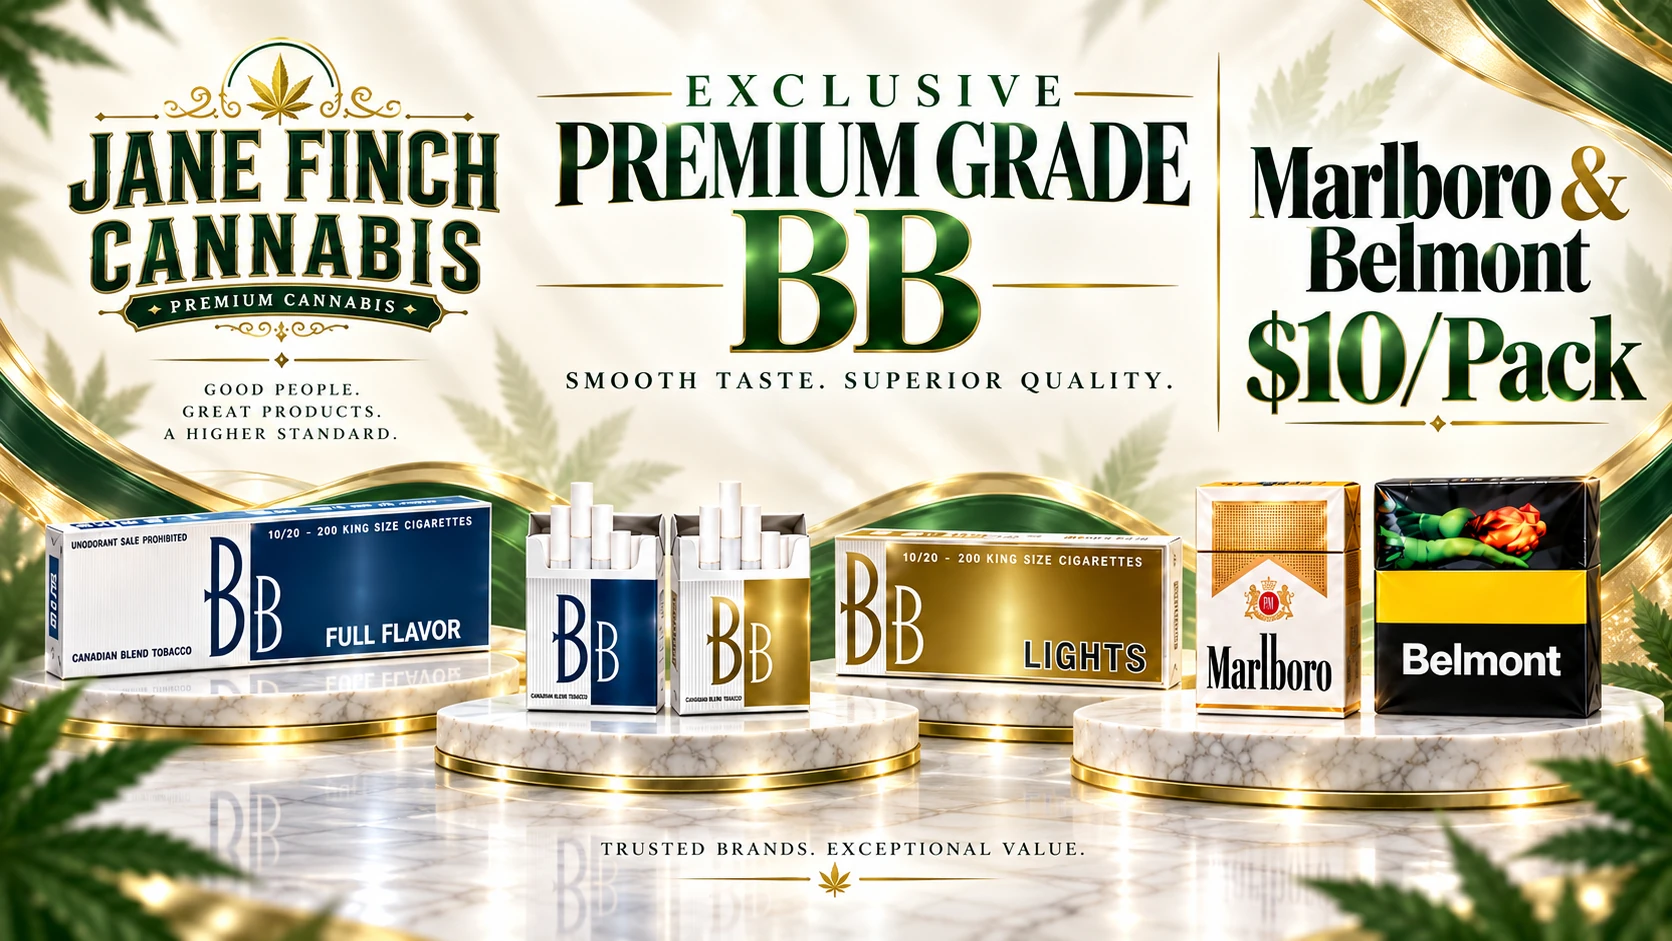
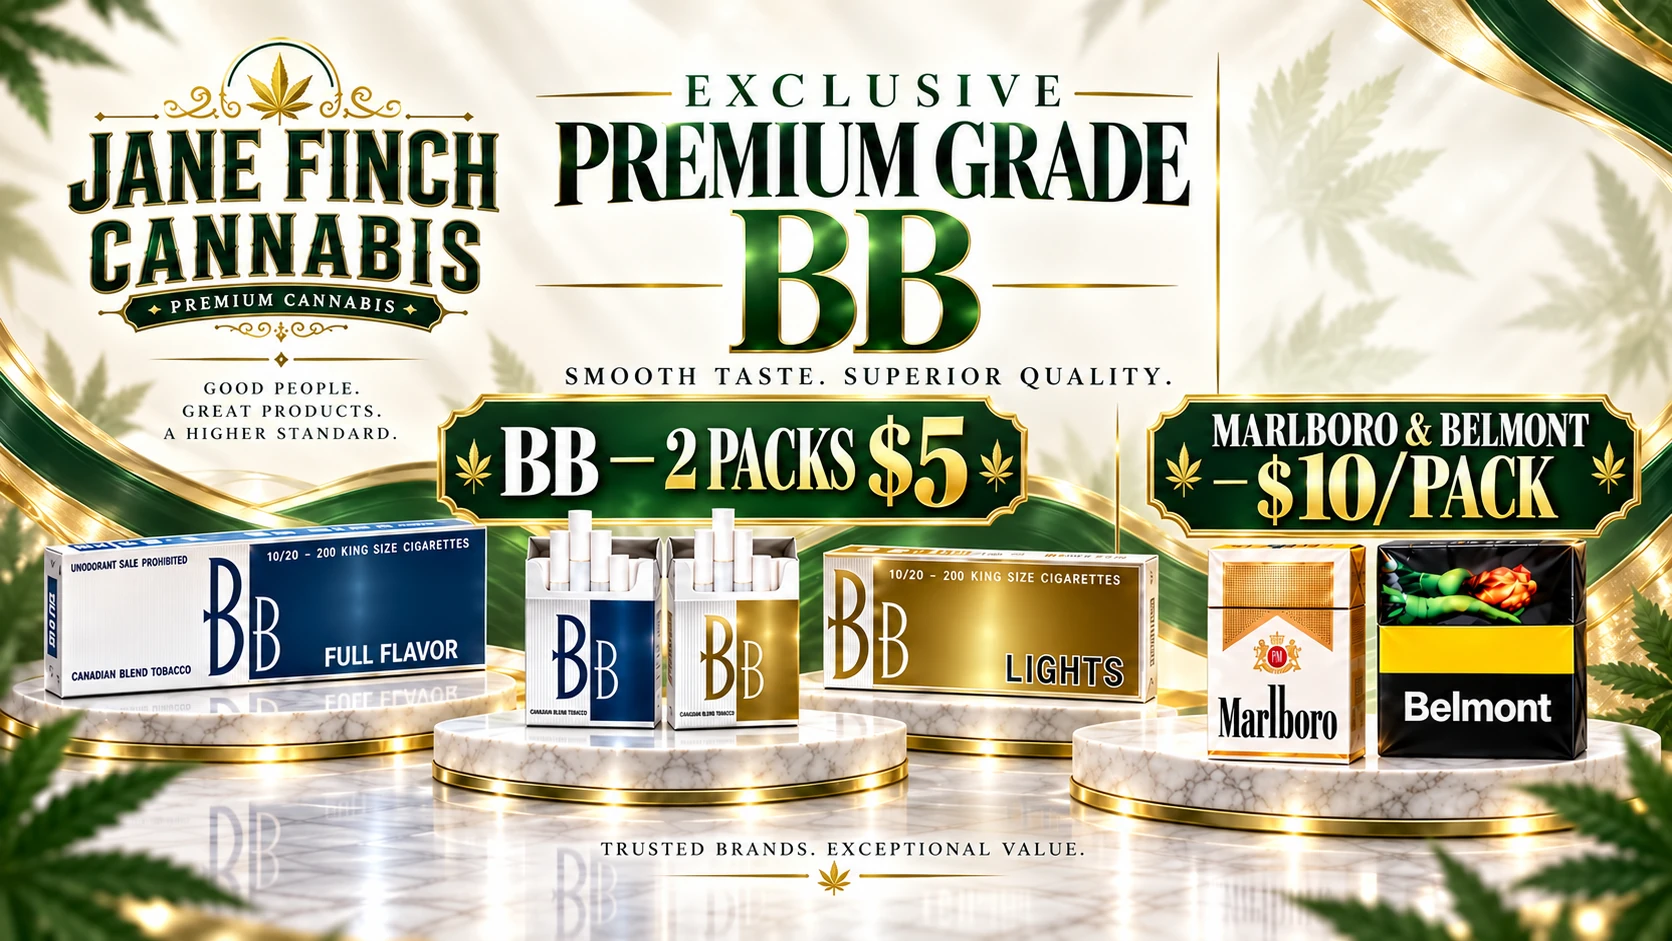
Add core promos to matching categories (#86)

diff --git a/app/components/CategoryCoreBanners.tsx b/app/components/CategoryCoreBanners.tsx
@@ -1,0 +1,52 @@
+import Link from "next/link";
+
+type CategoryCoreBannersProps = { kind: "weed" | "vapes" | "cigarettes" };
+
+const STORE_NAME = "Jane Finch Cannabis";
+const STORE_AREA = "Jane and Finch, North York";
+const STORE_ORIGIN = "https://janefinchcannabis.ca";
+const TOP_WEED_IMAGE = "/banners/top-weed-tier-jfc01.webp";
+const CIGARETTE_IMAGE = "/banners/native-cigarette-offer-20260822.webp";
+const VAPE_IMAGE = "/banners/core-vapes-nicotine-thc.webp";
+const PREMIUM_CIGARETTE_IMAGE = "/banners/core-premium-bb-marlboro-belmont.webp";
+
+export const cigaretteCategoryImage = {
+  alt: `${STORE_NAME} in ${STORE_AREA} — 2 packs for $5 mix and match and $25 carton cigarette offer`,
+  title: `${STORE_NAME} cigarette offer — 2 packs $5 mix and match, $25 carton`,
+};
+
+const promos = {
+  weed: { image: TOP_WEED_IMAGE, href: "/exotic-weed", alt: `${STORE_NAME} in ${STORE_AREA} — Exotic, Premium and AAA+ top weed tiers`, title: `${STORE_NAME} top weed tiers — Exotic, Premium and AAA+`, caption: "Exotic, Premium and AAA+ weed", linkLabel: "Shop weed tiers", schemaName: `${STORE_NAME} top weed tiers`, schemaDescription: `Exotic, Premium and AAA+ weed tiers at ${STORE_NAME} in ${STORE_AREA}.` },
+  vapes: { image: VAPE_IMAGE, href: "/items/vapes", alt: `${STORE_NAME} in ${STORE_AREA} — nicotine vapes and THC vapes`, title: `${STORE_NAME} nicotine vapes and THC vapes`, caption: "Nicotine vapes + THC vapes", linkLabel: "Shop vapes", schemaName: `${STORE_NAME} nicotine and THC vapes`, schemaDescription: `Nicotine vapes and THC vapes at ${STORE_NAME} in ${STORE_AREA}.` },
+  cigarettes: { image: CIGARETTE_IMAGE, href: "/items/cigarettes", alt: cigaretteCategoryImage.alt, title: cigaretteCategoryImage.title, caption: "2 packs $5 mix & match · $25 carton", linkLabel: "Shop cigarettes", schemaName: `${STORE_NAME} cigarette mix and match`, schemaDescription: `Two packs for $5 mix and match and $25 carton cigarette offer at ${STORE_NAME} in ${STORE_AREA}.` },
+  premium: { image: PREMIUM_CIGARETTE_IMAGE, href: "/items/cigarettes", alt: `${STORE_NAME} in ${STORE_AREA} — BB Full Flavor and Lights 2 packs for $5, Marlboro and Belmont $10 per pack`, title: `${STORE_NAME} premium cigarettes — BB 2 packs $5, Marlboro and Belmont $10 per pack`, caption: "BB Full Flavor + Lights — 2 packs $5 · Marlboro & Belmont — $10/pack", linkLabel: "Shop cigarettes", schemaName: `${STORE_NAME} premium cigarette offer`, schemaDescription: `BB Full Flavor and Lights two packs for $5 plus Marlboro and Belmont for $10 per pack at ${STORE_NAME} in ${STORE_AREA}.` },
+} as const;
+
+const figureStyle = { margin: 0, width: "100%" } as const;
+const imageStyle = { display: "block", width: "100%", maxWidth: "100%", height: "auto" } as const;
+const captionStyle = { margin: 0, padding: "14px 18px", background: "#111827", color: "#ffffff", textAlign: "center" as const, fontSize: "clamp(17px, 1.7vw, 28px)", fontWeight: 800, lineHeight: 1.35 };
+const captionLinkStyle = { color: "inherit", textDecoration: "underline", textUnderlineOffset: "3px" } as const;
+
+function PromoFigure({ promo, renderImage = true }: { promo: (typeof promos)[keyof typeof promos]; renderImage?: boolean }) {
+  return (
+    <figure data-category-core-banner={promo === promos.premium ? "premium-cigarettes" : promo === promos.cigarettes ? "cigarettes" : promo === promos.vapes ? "vapes" : "weed"} style={figureStyle}>
+      {renderImage ? <Link href={promo.href} aria-label={promo.alt} style={{ display: "block", width: "100%" }}>
+        {/* eslint-disable-next-line @next/next/no-img-element */}
+        <img src={promo.image} alt={promo.alt} title={promo.title} style={imageStyle} loading="lazy" />
+      </Link> : null}
+      <figcaption style={captionStyle}>{promo.caption} · <Link href={promo.href} style={captionLinkStyle}>{promo.linkLabel}</Link></figcaption>
+    </figure>
+  );
+}
+
+export default function CategoryCoreBanners({ kind }: CategoryCoreBannersProps) {
+  const visiblePromos = kind === "cigarettes" ? [promos.cigarettes, promos.premium] : [promos[kind]];
+  const imageObjects = visiblePromos.map((promo) => ({ "@type": "ImageObject", name: promo.schemaName, description: promo.schemaDescription, contentUrl: `${STORE_ORIGIN}${promo.image}` }));
+  return (
+    <section data-category-core-promos={kind} aria-label={`${STORE_NAME} ${kind} promotions`} style={{ width: "100%", maxWidth: "100%", overflowX: "hidden", marginBottom: "24px" }}>
+      <script type="application/ld+json" dangerouslySetInnerHTML={{ __html: JSON.stringify({ "@context": "https://schema.org", "@graph": imageObjects }).replace(/</g, "\\u003c") }} />
+      {kind === "cigarettes" ? <PromoFigure promo={promos.cigarettes} renderImage={false} /> : <PromoFigure promo={promos[kind]} />}
+      {kind === "cigarettes" ? <PromoFigure promo={promos.premium} /> : null}
+    </section>
+  );
+}

diff --git a/app/components/FleetAnnouncementBanner.tsx b/app/components/FleetAnnouncementBanner.tsx
@@ -16,7 +16,7 @@ const imageObjects = [
   { name: `${STORE_NAME} top weed tiers`, description: `Exotic, Premium and AAA+ weed tiers at ${STORE_NAME} in ${STORE_AREA}.`, contentUrl: `${STORE_ORIGIN}${TOP_WEED_IMAGE}` },
   { name: `${STORE_NAME} nicotine and THC vapes`, description: `Nicotine vapes and THC vapes at ${STORE_NAME} in ${STORE_AREA}.`, contentUrl: `${STORE_ORIGIN}${VAPE_IMAGE}` },
   { name: `${STORE_NAME} cigarette mix and match`, description: `Two packs for $5 mix and match and $25 carton cigarette offer at ${STORE_NAME} in ${STORE_AREA}.`, contentUrl: `${STORE_ORIGIN}${CIGARETTE_IMAGE}` },
-  { name: `${STORE_NAME} premium cigarette offer`, description: `BB Full Flavor and Lights plus Marlboro and Belmont cigarette offer at ${STORE_NAME} in ${STORE_AREA}.`, contentUrl: `${STORE_ORIGIN}${PREMIUM_CIGARETTE_IMAGE}` },
+  { name: `${STORE_NAME} premium cigarette offer`, description: `BB Full Flavor and Lights two packs for $5 plus Marlboro and Belmont for $10 per pack at ${STORE_NAME} in ${STORE_AREA}.`, contentUrl: `${STORE_ORIGIN}${PREMIUM_CIGARETTE_IMAGE}` },
 ].map((image) => ({ "@type": "ImageObject", ...image }));
 
 function isThanksgivingNoticeActive(date: Date) {
@@ -29,7 +29,7 @@ function isThanksgivingNoticeActive(date: Date) {
 const figureStyle = { margin: 0, width: "100%" } as const;
 const imageStyle = { display: "block", width: "100%", maxWidth: "100%", height: "auto" } as const;
 const linkStyle = { display: "block", width: "100%" } as const;
-const captionStyle = { margin: 0, padding: "10px 14px", background: "#111827", color: "#ffffff", textAlign: "center" as const, fontWeight: 800, lineHeight: 1.35 };
+const captionStyle = { margin: 0, padding: "14px 18px", background: "#111827", color: "#ffffff", textAlign: "center" as const, fontSize: "clamp(17px, 1.7vw, 28px)", fontWeight: 800, lineHeight: 1.35 };
 const captionLinkStyle = { color: "inherit", textDecoration: "underline", textUnderlineOffset: "3px" } as const;
 
 export default function FleetAnnouncementBanner() {
@@ -72,9 +72,9 @@ export default function FleetAnnouncementBanner() {
       <figure data-core-banner="premium-cigarettes" data-premium-cigarette-banner="" style={figureStyle}>
         <Link href="/items/cigarettes" aria-label={`Shop BB, Marlboro and Belmont cigarette offers at ${STORE_NAME}`} style={linkStyle}>
           {/* eslint-disable-next-line @next/next/no-img-element */}
-          <img src={PREMIUM_CIGARETTE_IMAGE} alt={`${STORE_NAME} in ${STORE_AREA} — BB Full Flavor and Lights, Marlboro and Belmont premium cigarettes`} title={`${STORE_NAME} premium cigarettes — BB, Marlboro and Belmont`} style={imageStyle} loading="lazy" />
+          <img src={PREMIUM_CIGARETTE_IMAGE} alt={`${STORE_NAME} in ${STORE_AREA} — BB Full Flavor and Lights 2 packs for $5, Marlboro and Belmont $10 per pack`} title={`${STORE_NAME} premium cigarettes — BB 2 packs $5, Marlboro and Belmont $10 per pack`} style={imageStyle} loading="lazy" />
         </Link>
-        <figcaption style={captionStyle}>BB Full Flavor + Lights · Marlboro &amp; Belmont $10/pack · <Link href="/items/cigarettes" style={captionLinkStyle}>Shop cigarettes</Link></figcaption>
+        <figcaption style={captionStyle}>BB Full Flavor + Lights — 2 packs $5 · Marlboro &amp; Belmont — $10/pack · <Link href="/items/cigarettes" style={captionLinkStyle}>Shop cigarettes</Link></figcaption>
       </figure>
 
       <FlowerBogoStrip hero />

diff --git a/app/items/[category]/page.tsx b/app/items/[category]/page.tsx
@@ -4,6 +4,7 @@ import fs from "fs";
 import path from "path";
 import Link from "next/link";
 import Navbar from "../../components/Navbar";
+import CategoryCoreBanners, { cigaretteCategoryImage } from "../../components/CategoryCoreBanners";
 import Footer from "../../components/Footer";
 import SafeImage from "../../components/SafeImage";
 import { getItemPriceDisplay } from "../../lib/itemPricing";
@@ -90,7 +91,8 @@ export default async function ItemsCategoryPage({
           <>
             <img
               src={config.banner}
-              alt={config.name}
+              alt={catSlug === "cigarettes" ? cigaretteCategoryImage.alt : config.name}
+              title={catSlug === "cigarettes" ? cigaretteCategoryImage.title : config.name}
               style={{ width: "100%", height: "auto", display: "block", objectFit: "contain" }}
             />
             {(catInfo.key === "VAPE PENS" || catInfo.key === "VAPE DISPOSABLE") && (
@@ -111,6 +113,9 @@ export default async function ItemsCategoryPage({
           </div>
         )}
       </section>
+
+      {(catSlug === "vapes" || catSlug === "vape-disposables") && <CategoryCoreBanners kind="vapes" />}
+      {catSlug === "cigarettes" && <CategoryCoreBanners kind="cigarettes" />}
 
       {guideGroups.length > 0 && (
         <nav className={styles.guideStrip} aria-label={`${config.name} guides`}>

diff --git a/app/[tier]/page.tsx b/app/[tier]/page.tsx
@@ -4,6 +4,7 @@ import Link from "next/link";
 import fs from "fs";
 import path from "path";
 import Navbar from "../components/Navbar";
+import CategoryCoreBanners from "../components/CategoryCoreBanners";
 import Footer from "../components/Footer";
 import FlowerCard from "../components/FlowerCard";
 import {
@@ -113,6 +114,8 @@ export default async function TierPage({
           />
         </section>
       )}
+
+      {["EXOTIC", "PREMIUM", "AAA+"].includes(tierInfo.key.toUpperCase()) ? <CategoryCoreBanners kind="weed" /> : null}
 
       {/* ── Hero Content BELOW banner ── */}
       <section
